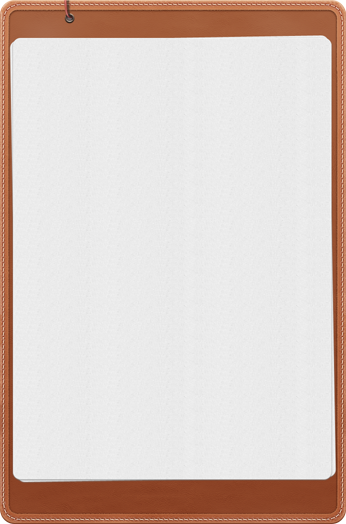
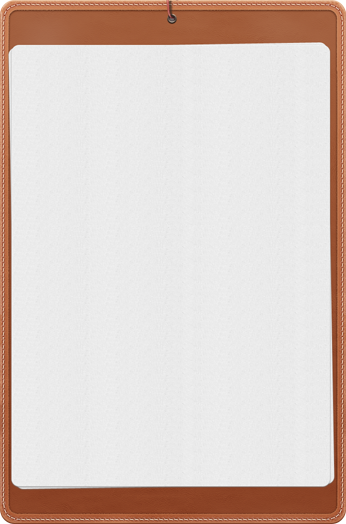
iPad fixes

Changed region(s): [[0.0, 0.0, 0.9538, 0.9466], [0.9538, 0.0916, 0.9827, 0.916]]

diff --git a/Classes/MainViewController.m b/Classes/MainViewController.m
@@ -831,7 +831,7 @@
 
 -(void)showiPadSettingsModalView
 {
-    if (popover) {
+    if ([popover isPopoverVisible]) {
         [popover dismissPopoverAnimated:YES];
         [stationsView restoreFieldAfterPopover];
     }
@@ -1034,7 +1034,7 @@
             popover = [[UIPopoverController alloc] initWithContentViewController:controller];
             popover.popoverBackgroundViewClass = [CustomPopoverBackgroundView class];
             //        [popover presentPopoverFromRect:CGRectMake(self.stationsView.fromStationField.frame.origin.x+80.0, 30.0, 0.0, 0.0) inView:self.stationsView permittedArrowDirections:UIPopoverArrowDirectionUp animated:YES];
-            [popover presentPopoverWithoutInnerShadowFromRect:CGRectMake(self.stationsView.fromStationField.frame.origin.x+177.0, 36.0, 1.0, 1.0) inView:self.stationsView permittedArrowDirections:UIPopoverArrowDirectionUp animated:YES];;
+            [popover presentPopoverWithoutInnerShadowFromRect:CGRectMake(self.stationsView.fromStationField.frame.origin.x+self.stationsView.fromStationField.frame.size.width/2.0, 36.0, 1.0, 1.0) inView:self.stationsView permittedArrowDirections:UIPopoverArrowDirectionUp animated:YES];;
             [controller release];
             
         } else {
@@ -1082,7 +1082,7 @@
             popover = [[UIPopoverController alloc] initWithContentViewController:controller];
             popover.popoverBackgroundViewClass = [CustomPopoverBackgroundView class];
             //        [popover presentPopoverFromRect:CGRectMake(self.stationsView.fromStationField.frame.origin.x+80.0, 30.0, 0.0, 0.0) inView:self.stationsView permittedArrowDirections:UIPopoverArrowDirectionUp animated:YES];
-            [popover presentPopoverWithoutInnerShadowFromRect:CGRectMake(self.stationsView.fromStationField.frame.origin.x+177.0, 36.0, 1.0, 1.0) inView:self.stationsView permittedArrowDirections:UIPopoverArrowDirectionUp animated:YES];;
+            [popover presentPopoverWithoutInnerShadowFromRect:CGRectMake(self.stationsView.toStationField.frame.origin.x+20.0, 36.0, 1.0, 1.0) inView:self.stationsView permittedArrowDirections:UIPopoverArrowDirectionUp animated:YES];;
             [controller release];
             
         } else {

diff --git a/CustomPopoverBackgroundView.m b/CustomPopoverBackgroundView.m
@@ -23,8 +23,7 @@
     
     if (self = [super initWithFrame:frame]) {
         _borderImageView = [[UIImageView alloc] initWithImage:[UIImage imageNamed:@"newdes_ipad_stations_background_v3"]];
-    //resizableImageWithCapInsets:UIEdgeInsetsMake(CAP_INSET,CAP_INSET,CAP_INSET,CAP_INSET)]];
-    _arrowView = [[UIImageView alloc] initWithImage:[UIImage imageNamed:@"newdes_ipad_popover_rope"]];
+        _arrowView = [[UIImageView alloc] initWithImage:[UIImage imageNamed:@"newdes_ipad_popover_rope"]];
         [self addSubview:_borderImageView];
         [self addSubview:_arrowView];
     }
@@ -53,12 +52,7 @@
             _top += ARROW_HEIGHT;
             _height -= ARROW_HEIGHT;
             _coordinate = ((self.frame.size.width / 2) + self.arrowOffset) - (ARROW_BASE/2);
-            tubeAppDelegate *ddelegate = (tubeAppDelegate*)[[UIApplication sharedApplication] delegate];
-            if ([ddelegate.tubeSplitViewController.mainViewController currentSelection]==1) {
-                _arrowView.frame = CGRectMake(261, 0, ARROW_BASE, ARROW_HEIGHT);
-            } else {
-                _arrowView.frame = CGRectMake(61, 0, ARROW_BASE, ARROW_HEIGHT);
-            }
+            _arrowView.frame = CGRectMake(162.5, 0, ARROW_BASE, ARROW_HEIGHT);
             break;
         case UIPopoverArrowDirectionDown:
             _height -= ARROW_HEIGHT;
@@ -77,6 +71,10 @@
             _coordinate = ((self.frame.size.height / 2) + self.arrowOffset)- (ARROW_HEIGHT/2);
             _arrowView.frame = CGRectMake(_width, _coordinate, ARROW_BASE, ARROW_HEIGHT);
             _rotation = CGAffineTransformMakeRotation( M_PI_2 );
+            break;
+        case UIPopoverArrowDirectionAny:
+            break;
+        case UIPopoverArrowDirectionUnknown:
             break;
     }
     

diff --git a/SelectingTabBarViewControllerNDiPad.m b/SelectingTabBarViewControllerNDiPad.m
@@ -91,12 +91,12 @@
         [linesButton setImage:nil forState:UIControlStateHighlighted];
         
         if (state==0) {
-            stationButton.frame=CGRectMake(90, 11, 95, 28);
-            linesButton.frame=CGRectMake(175, 11, 95, 28);
+            stationButton.frame=CGRectMake(75, 18, 95, 28);
+            linesButton.frame=CGRectMake(175, 18, 95, 28);
             [self.view bringSubviewToFront:stationButton];
         } else {
-            stationButton.frame=CGRectMake(90, 11, 95, 28);
-            linesButton.frame=CGRectMake(175, 11, 95, 28);
+            stationButton.frame=CGRectMake(75, 18, 95, 28);
+            linesButton.frame=CGRectMake(175, 18, 95, 28);
             [self.view bringSubviewToFront:linesButton];
         }
         
@@ -224,10 +224,9 @@
     
     CGFloat fff=(self.view.frame.size.width-40.0-(bsize.width+hsize.width+ssize.width+3*signWidth))/2.0;
     
-    bookmarkButton.frame=CGRectMake(20, 485, bsize.width+signWidth, 25);
-    historyButton.frame=CGRectMake(20+bsize.width+signWidth+fff, 485, hsize.width+signWidth, 25);
-    settingsButton.frame=CGRectMake(20+bsize.width+signWidth+2*fff+hsize.width+signWidth, 485, ssize.width+signWidth, 25);
-    settingsButton.frame=CGRectMake(self.view.frame.size.width-20.0-ssize.width-signWidth, 485, ssize.width+signWidth, 25);
+    bookmarkButton.frame=CGRectMake(20, 489, bsize.width+signWidth, 25);
+    historyButton.frame=CGRectMake(20+bsize.width+signWidth+fff, 489, hsize.width+signWidth, 25);
+    settingsButton.frame=CGRectMake(self.view.frame.size.width-20.0-ssize.width-signWidth, 489, ssize.width+signWidth, 25);
 
     [bookmarkButton setTitleEdgeInsets:UIEdgeInsetsMake(5, signWidth/2.0, 0, 0)];
     [historyButton setTitleEdgeInsets:UIEdgeInsetsMake(5, signWidth/2.0, 0, 0)];

diff --git a/NewTheme.m b/NewTheme.m
@@ -586,8 +586,22 @@
 
 -(UIImage*)pathBarViewDestinationIcon
 {
-    return [UIImage imageNamed:@"newdes_pathbar_destination_icon"];
+    if (IS_IPAD) {
+        return [UIImage imageNamed:@"newdes_ipad_stations_destination"];
+    } else {
+        return [UIImage imageNamed:@"newdes_pathbar_destination_icon"];
+    }
 }
+
+-(UIImage*)pathBarViewClockIcon
+{
+    if (IS_IPAD) {
+        return [UIImage imageNamed:@"newdes_ipad_stations_clock"];
+    } else {
+        return [UIImage imageNamed:@"clock"];
+    }
+}
+
 
 -(UIImage*)switchButtonImage:(UIControlState)state
 {
@@ -915,17 +929,30 @@
 
 -(UIColor*)pathBarViewFontColor1;
 {
-    return [self highlightColor];
+    if (IS_IPAD) {
+        return [self highlightColor];
+    } else {
+        return [UIColor darkGrayColor];
+    }
 }
 
 -(UIColor*)pathBarViewFontColor2;
 {
-    return [self highlightColor];
+    if (IS_IPAD) {
+        return [self highlightColor];
+    } else {
+        return [UIColor blackColor];
+    }
 }
 
 -(UIColor*)pathBarViewFontShadowColor;
 {
-    return [UIColor colorWithRed:0.84 green:0.62 blue:0.47 alpha:1.0];
+    if (IS_IPAD) {
+        return [UIColor colorWithRed:0.84 green:0.62 blue:0.47 alpha:1.0];
+    } else {
+        return [UIColor whiteColor];
+    }
+
 }
 
 @end

diff --git a/PathBarView.m b/PathBarView.m
@@ -47,8 +47,9 @@
         }
         
 
-        UIImageView *clockView = [[UIImageView alloc] initWithImage:[UIImage imageNamed:@"clock.png"]];
-        clockView.frame = CGRectMake(start, 4, 14, 14);
+        UIImage *clockImage = [[SSThemeManager sharedTheme] pathBarViewClockIcon];
+        UIImageView *clockView = [[UIImageView alloc] initWithImage:clockImage];
+        clockView.frame = CGRectMake(start, 4,clockImage.size.width,clockImage.size.height);
         clockView.tag=6400+page;
         [self addSubview:clockView];
         [clockView release];

diff --git a/StatusViewController.m b/StatusViewController.m
@@ -44,7 +44,7 @@
         CGFloat viewStartX = [[SSThemeManager sharedTheme] statusViewStartX];
         
         if (!IS_IPAD) {
-            self.view.frame=CGRectMake(viewStartX, -354, viewWidth, 354);
+            self.view.frame=CGRectMake(viewStartX, -454, viewWidth, 354);
             self.view.backgroundColor = [UIColor colorWithPatternImage:[[SSThemeManager sharedTheme] statusViewBackground]];
             self.view.layer.cornerRadius=5.0f;
             self.view.layer.shadowColor=[[UIColor blackColor] CGColor];

diff --git a/VertPathScrollView.m b/VertPathScrollView.m
@@ -736,7 +736,7 @@
             
             if ([[SSThemeManager sharedTheme] isNewTheme]) {
                 UIImageView *gradientView = [[UIImageView alloc] initWithImage:[UIImage imageNamed:@"newdes_train_gradient"]];
-                gradientView.frame=CGRectMake(0, currentY+34.0, self.frame.size.width, 24);
+                gradientView.frame=CGRectMake(0, currentY+22.0, self.frame.size.width, 36);
                 [self addSubview:gradientView];
             }
             

diff --git a/SSTheme.h b/SSTheme.h
@@ -124,6 +124,7 @@ typedef NS_ENUM(NSInteger, SSThemeTab) {
 
 -(CGFloat)pathBarViewWidth;
 -(UIImage*)pathBarViewDestinationIcon;
+-(UIImage*)pathBarViewClockIcon;
 -(UIImage*)switchButtonImage:(UIControlState)state;
 
 -(UIImage*)vertScrollViewBackground;

diff --git a/OldTheme.m b/OldTheme.m
@@ -588,6 +588,11 @@
     return [UIImage imageNamed:@"flag.png"];
 }
 
+-(UIImage*)pathBarViewClockIcon
+{
+    return [UIImage imageNamed:@"clock"];
+}
+
 -(UIImage*)switchButtonImage:(UIControlState)state
 {
     NSString *name;
